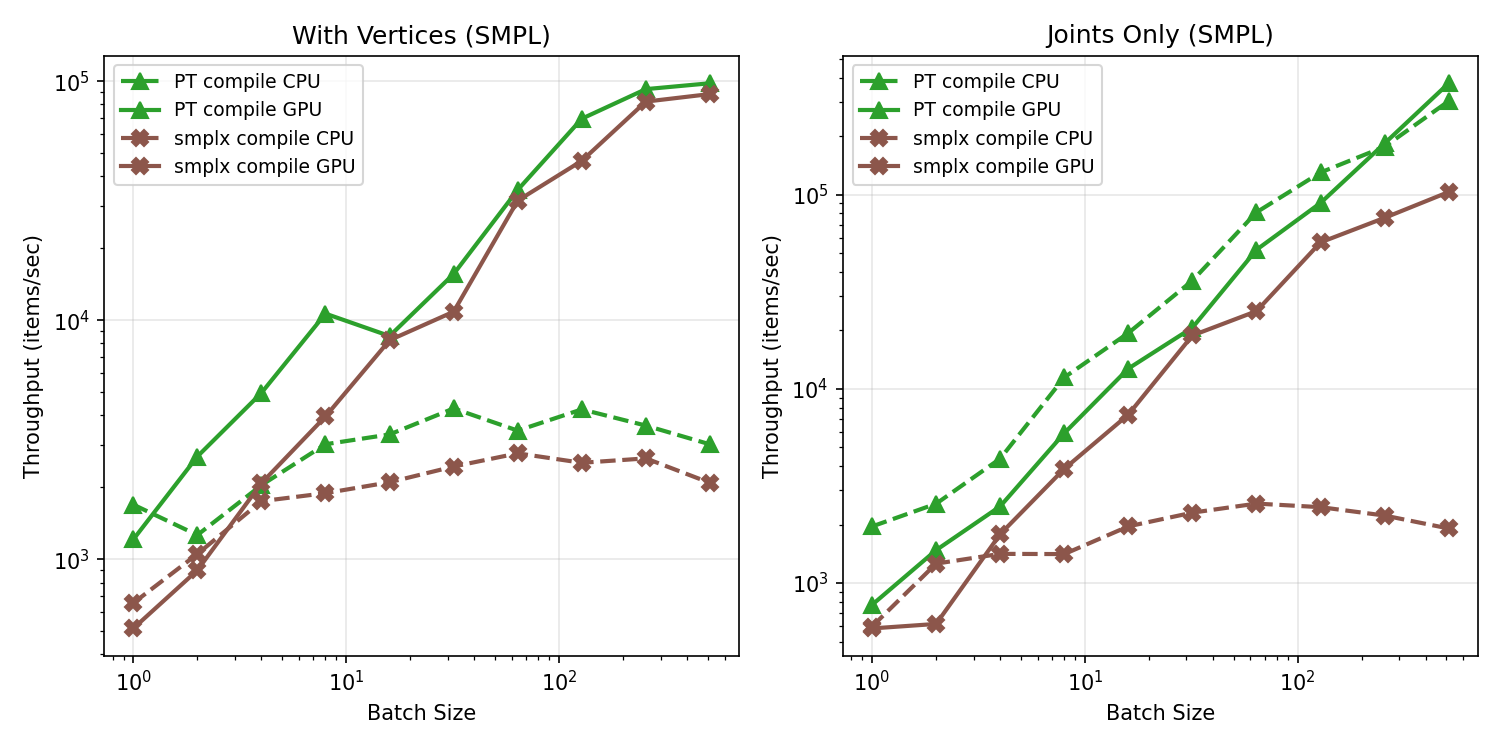
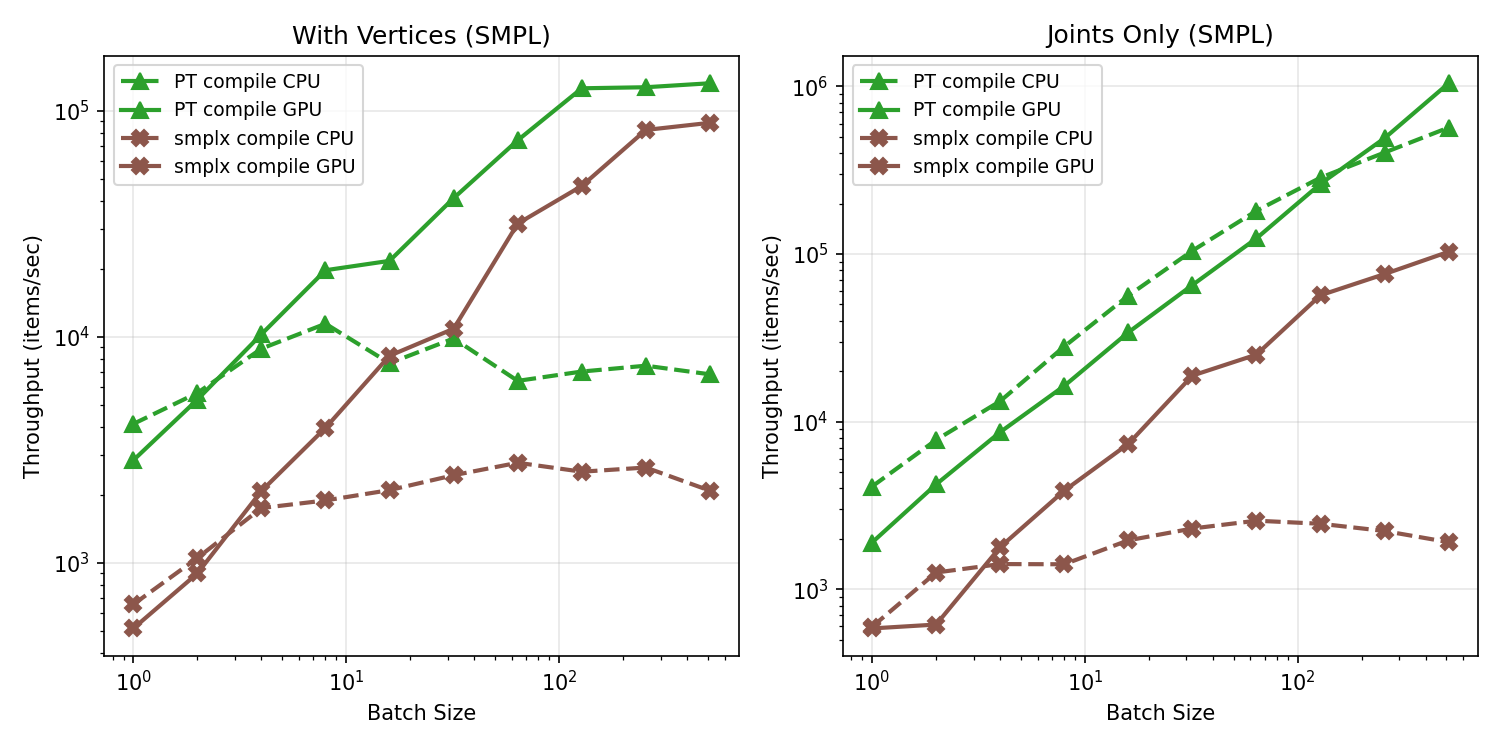
Improve benchmark: per-iteration median, more backends
Switch from total/n mean to per-iteration median timing. Increase
warmup from 3 to 20. Add PT eager and PT script backends alongside
compile. Update plot styles and regenerate benchmark PNGs.

diff --git a/benchmark/run_benchmark.py b/benchmark/run_benchmark.py
@@ -98,23 +98,24 @@ def make_backends(model_name='smpl', return_vertices=True, which=None):
         try:
             import torch
 
-            backends.append(
-                PyTorchBackend(
-                    model_name=model_name,
-                    gpu=False,
-                    compile_mode='compile',
-                    return_vertices=return_vertices,
-                )
-            )
-            if torch.cuda.is_available():
+            for compile_mode in [None, 'script', 'compile']:
                 backends.append(
                     PyTorchBackend(
                         model_name=model_name,
-                        gpu=True,
-                        compile_mode='compile',
+                        gpu=False,
+                        compile_mode=compile_mode,
                         return_vertices=return_vertices,
                     )
                 )
+                if torch.cuda.is_available():
+                    backends.append(
+                        PyTorchBackend(
+                            model_name=model_name,
+                            gpu=True,
+                            compile_mode=compile_mode,
+                            return_vertices=return_vertices,
+                        )
+                    )
         except ImportError:
             pass
 
@@ -304,10 +305,13 @@ class PyTorchBackend(Backend):
             model = model.cuda()
         if compile_mode == 'compile':
             model = torch.compile(model)
+        elif compile_mode == 'script':
+            model = torch.jit.script(model)
         self.model = model
 
         suffix = ' GPU' if gpu else ' CPU'
-        self.name = ('PT compile' if compile_mode == 'compile' else 'PyTorch') + suffix
+        mode_name = {'compile': 'PT compile', 'script': 'PT script', None: 'PT eager'}[compile_mode]
+        self.name = mode_name + suffix
 
     def prepare(self, pose, shape, trans):
         inputs = dict(

diff --git a/benchmark/bench_bodymodel.py b/benchmark/bench_bodymodel.py
@@ -4,18 +4,21 @@ import numpy as np
 import time
 
 
-def benchmark(func, inputs, n_warmup=3, n_iter=50):
-    """Run benchmark and return mean time in ms."""
+def benchmark(func, inputs, n_warmup=20, n_iter=50):
+    """Run benchmark and return median time in ms."""
     # Warmup
     for _ in range(n_warmup):
         func(**inputs)
 
-    # Timed runs
-    start = time.perf_counter()
+    # Timed runs (individual)
+    times = []
     for _ in range(n_iter):
+        start = time.perf_counter()
         func(**inputs)
-    elapsed = time.perf_counter() - start
-    return elapsed / n_iter * 1000  # ms
+        elapsed = time.perf_counter() - start
+        times.append(elapsed * 1000)
+    times.sort()
+    return times[n_iter // 2]  # median
 
 
 def main():

diff --git a/benchmark/plot_results.py b/benchmark/plot_results.py
@@ -23,6 +23,10 @@ def query_throughput(conn, backend, model, mode):
 STYLE = {
     'NumPy': dict(color='C0', linestyle='--', marker='o'),
     'Numba': dict(color='C1', linestyle='--', marker='s'),
+    'PT eager CPU': dict(color='C2', linestyle='--', marker='o'),
+    'PT eager GPU': dict(color='C2', linestyle='-', marker='o'),
+    'PT script CPU': dict(color='C6', linestyle='--', marker='s'),
+    'PT script GPU': dict(color='C6', linestyle='-', marker='s'),
     'PT compile CPU': dict(color='C2', linestyle='--', marker='^'),
     'PT compile GPU': dict(color='C2', linestyle='-', marker='^'),
     'TF function CPU': dict(color='C3', linestyle='--', marker='D'),